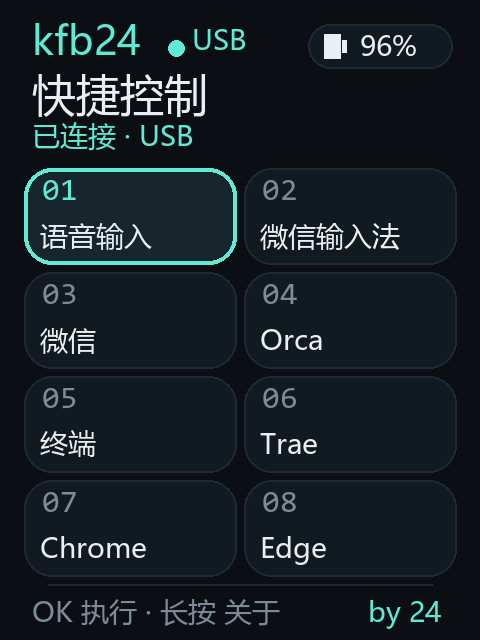
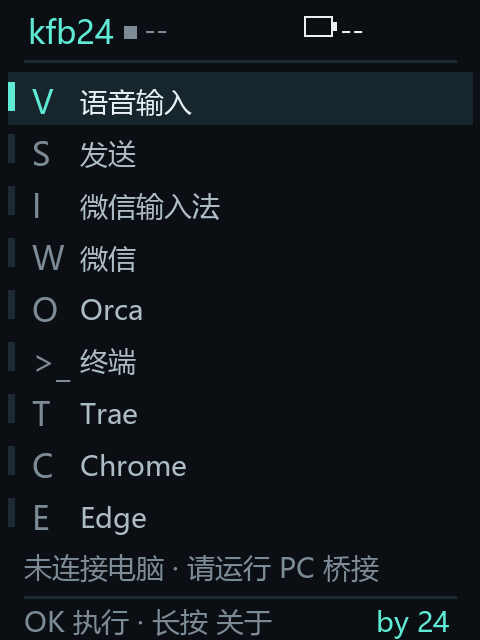
feat(kfb24): add a Send action and clamp list navigation
- The board's ninth action, `enter`, presses Enter once in the focused window so the
  recognised text is submitted; the bridge ends a running voice session first. It
  stays manual because WeType commits after the hotkey is released.
- Up/Down now clamp at the first and last row instead of wrapping; pressing Up on the
  voice row used to jump to the last row.
- Nine 26 px rows with ASCII icons, because `kfb24_font_16` has no LVGL private-use
  glyphs and the previous symbol icons rendered blank.
- Version 1.0.3 in the firmware, the bridge, and the about page; regenerated the home
  screen preview and documented the Send action.

diff --git a/main/kfb24_ui.c b/main/kfb24_ui.c
@@ -24,19 +24,21 @@
 #define SCREEN_W 240
 #define SCREEN_H 320
 
-#define KFB24_ACTION_COUNT 8
+#define KFB24_ACTION_COUNT 9
 
 static const char *TAG = "kfb24_ui";
 static const char *CMDS[KFB24_ACTION_COUNT] = {
-    "voice", "ime", "wechat", "orca",
+    "voice", "enter", "ime", "wechat", "orca",
     "terminal", "trae", "chrome", "edge",
 };
 static const char *NAMES[KFB24_ACTION_COUNT] = {
-    "语音输入", "微信输入法", "微信", "Orca",
+    "语音输入", "发送", "微信输入法", "微信", "Orca",
     "终端", "Trae", "Chrome", "Edge",
 };
+// ASCII only: kfb24_font_16 is generated from the characters found under
+// main/, so LVGL's private-use symbols are not in it and render as blanks.
 static const char *ICONS[KFB24_ACTION_COUNT] = {
-    LV_SYMBOL_AUDIO, LV_SYMBOL_KEYBOARD, LV_SYMBOL_ENVELOPE,
+    "V", "S", "I", "W",
     "O", ">_", "T", "C", "E",
 };
 
@@ -80,7 +82,7 @@ static lv_obj_t *make_row(lv_obj_t *parent, int y,
     lv_obj_remove_flag(row, LV_OBJ_FLAG_SCROLLABLE);
     lv_obj_add_flag(row, LV_OBJ_FLAG_CLICKABLE);
     lv_obj_set_pos(row, 4, y);
-    lv_obj_set_size(row, 232, 30);
+    lv_obj_set_size(row, 232, 26);
     lv_obj_set_style_radius(row, 0, 0);
     lv_obj_set_style_bg_color(row, lv_color_hex(COL_SURFACE_HI), 0);
     lv_obj_set_style_bg_opa(row, LV_OPA_TRANSP, 0);
@@ -91,18 +93,18 @@ static lv_obj_t *make_row(lv_obj_t *parent, int y,
 
     lv_obj_t *bar = lv_obj_create(row);
     lv_obj_remove_flag(bar, LV_OBJ_FLAG_SCROLLABLE);
-    lv_obj_set_pos(bar, 0, 7);
-    lv_obj_set_size(bar, 3, 16);
+    lv_obj_set_pos(bar, 0, 5);
+    lv_obj_set_size(bar, 3, 14);
     lv_obj_set_style_radius(bar, 0, 0);
     lv_obj_set_style_bg_color(bar, lv_color_hex(COL_BORDER), 0);
     lv_obj_set_style_bg_opa(bar, LV_OPA_COVER, 0);
     lv_obj_set_style_border_width(bar, 0, 0);
     lv_obj_set_style_pad_all(bar, 0, 0);
 
-    lv_obj_t *icon_label = make_label(row, icon, &kfb24_font_16, COL_MUTED, 12, 6);
+    lv_obj_t *icon_label = make_label(row, icon, &kfb24_font_16, COL_MUTED, 12, 4);
     lv_obj_set_width(icon_label, 20);
     lv_obj_t *name_label = make_label(row, name, &kfb24_font_14,
-                                      COL_TEXT_DIM, 36, 7);
+                                      COL_TEXT_DIM, 36, 5);
     lv_obj_set_width(name_label, 188);
     lv_label_set_long_mode(name_label, LV_LABEL_LONG_CLIP);
 
@@ -216,7 +218,7 @@ static void update_about(const kfb24_link_status_t *st, int soc, int mv) {
         snprintf(buf, sizeof(buf), "%s", "--");
     }
     lv_label_set_text(s_about_values[4], buf);
-    lv_label_set_text(s_about_values[5], "kfb24 1.0.2");
+    lv_label_set_text(s_about_values[5], "kfb24 1.0.3");
 }
 
 static void update_status(void) {
@@ -310,7 +312,11 @@ static void execute_action(int index) {
     }
 
     char buf[48];
-    snprintf(buf, sizeof(buf), "已发送 · %s", NAMES[index]);
+    if (strcmp(CMDS[index], "enter") == 0) {
+        snprintf(buf, sizeof(buf), "已发送 · Enter");
+    } else {
+        snprintf(buf, sizeof(buf), "已发送 · %s", NAMES[index]);
+    }
     set_hint(buf, COL_ACCENT);
 }
 
@@ -353,7 +359,7 @@ static void about_open(void) {
     lv_obj_set_style_bg_opa(overlay, LV_OPA_COVER, 0);
 
     make_label(overlay, "关于", &kfb24_font_22, COL_TEXT, 16, 14);
-    lv_obj_t *version = make_label(overlay, "kfb24 1.0.2",
+    lv_obj_t *version = make_label(overlay, "kfb24 1.0.3",
                                    &lv_font_montserrat_14, COL_MUTED, 16, 46);
     lv_obj_set_width(version, 208);
     lv_obj_set_style_text_align(version, LV_TEXT_ALIGN_RIGHT, 0);
@@ -467,7 +473,7 @@ static void splash_done(lv_timer_t *timer) {
     lv_obj_set_style_pad_all(rule, 0, 0);
 
     for (int i = 0; i < KFB24_ACTION_COUNT; i++) {
-        lv_obj_t *row = make_row(home, 36 + i * 30,
+        lv_obj_t *row = make_row(home, 36 + i * 26,
                                  ICONS[i], NAMES[i], i);
         lv_obj_add_event_cb(row, card_clicked, LV_EVENT_CLICKED,
                             (void *)(intptr_t)i);
@@ -578,11 +584,17 @@ void kfb24_ui_handle_input(bsp_btn_t btn, bsp_btn_ev_t ev) {
     }
 
     if (btn == BSP_BTN_UP) {
-        s_selected = (s_selected + KFB24_ACTION_COUNT - 1) % KFB24_ACTION_COUNT;
-        refresh_selection();
+        // Clamp, do not wrap: from the first row, wrapping to the last one
+        // reads as "up did not move up".
+        if (s_selected > 0) {
+            s_selected--;
+            refresh_selection();
+        }
     } else if (btn == BSP_BTN_DOWN) {
-        s_selected = (s_selected + 1) % KFB24_ACTION_COUNT;
-        refresh_selection();
+        if (s_selected < KFB24_ACTION_COUNT - 1) {
+            s_selected++;
+            refresh_selection();
+        }
     } else if (btn == BSP_BTN_OK) {
         execute_action(s_selected);
     }

diff --git a/pc/kfb24_bridge.py b/pc/kfb24_bridge.py
@@ -51,7 +51,7 @@ except ImportError:  # pragma: no cover - reported by main when --ble is used
     BleakClient = None
     BleakScanner = None
 
-VERSION = "1.0.2"
+VERSION = "1.0.3"
 PREFIX = "KFB24 "
 DEFAULT_TCP_PORT = 8765
 DEFAULT_CONFIG = Path(os.environ.get("APPDATA", str(Path.home()))) / "kfb24" / "bridge.json"
@@ -1217,6 +1217,25 @@ class Actions:
             return send_hotkey(fallback)
         return False
 
+    def enter(self) -> bool:
+        """Press Enter once, so the recognised text is submitted.
+
+        WeType commits the text into the focused control a moment after the
+        voice hotkey is released, so this is a separate user action rather
+        than an automatic keystroke: pressing it too early would submit an
+        empty line, and only the user knows when the text is complete.
+        """
+        if self.dry_run:
+            log("dry-run: press Enter")
+            return True
+        keys = hotkey_keys("enter")
+        if not keys:
+            return False
+        if not press_keys(keys):
+            return False
+        time.sleep(0.04)  # Give the target a key-down/key-up pair, not a blip.
+        return release_keys(keys)
+
     def _start_audio(self) -> bool:
         if self.audio.start():
             return True
@@ -1350,6 +1369,11 @@ class Actions:
     def run(self, name: str) -> bool:
         if name == "voice":
             return self.voice()
+        if name == "enter":
+            # Submitting while WeType still holds the hotkey would send the
+            # Enter before its text lands, so end the session first.
+            self._end_voice_session("ended by enter")
+            return self.enter()
         if name == "ime":
             # Commit the running WeType session under the current IME first;
             # switching profiles mid-commit can swallow the text.
@@ -1927,7 +1951,7 @@ def run_bridge(args, config: dict) -> int:
         release_single_instance()
         return 2
     bridge.start_heartbeat()
-    log("bridge: ready for voice/ime/wechat/orca/terminal/trae/chrome/edge")
+    log("bridge: ready for voice/enter/ime/wechat/orca/terminal/trae/chrome/edge")
     try:
         while True:
             time.sleep(1.0)
@@ -1972,8 +1996,8 @@ def main() -> int:
     parser.add_argument("--password", help="Wi-Fi password for --configure")
     parser.add_argument("--host", help="PC IPv4 address advertised to the board")
     parser.add_argument("--test-action",
-                        choices=["voice", "ime", "wechat", "orca", "terminal",
-                                 "trae", "chrome", "edge"],
+                        choices=["voice", "enter", "ime", "wechat", "orca",
+                                 "terminal", "trae", "chrome", "edge"],
                         help="run one action locally and exit")
     args = parser.parse_args()
 

diff --git a/main/main.c b/main/main.c
@@ -1,5 +1,5 @@
 // kfb24 —— a PC command console for the FoloToy AI Passport board.
-// Three buttons drive eight actions over USB, Wi-Fi, or BLE through the
+// Three buttons drive nine actions over USB, Wi-Fi, or BLE through the
 // kfb24 PC bridge.
 #include "bsp_button.h"
 #include "bsp_display.h"
@@ -41,7 +41,7 @@ static void input_task(void *arg) {
 }
 
 void app_main(void) {
-    ESP_LOGI(TAG, "kfb24 1.0.2 by 24 启动");
+    ESP_LOGI(TAG, "kfb24 1.0.3 by 24 启动");
 
     esp_err_t err = bsp_i2c_init();
     if (err != ESP_OK) ESP_LOGW(TAG, "I2C 初始化失败: %s", esp_err_to_name(err));

diff --git a/main/kfb24_link.c b/main/kfb24_link.c
@@ -30,7 +30,7 @@
 #define USB_LINE_MAX KFB24_PROTO_MAX_LINE
 
 static const char *TAG = "kfb24_link";
-static const char *FW_VERSION = "kfb24/1.0.2";
+static const char *FW_VERSION = "kfb24/1.0.3";
 
 typedef struct {
     char name[16];

diff --git a/README.md b/README.md
@@ -11,7 +11,7 @@ Windows 快捷控制台。三颗实体按键、一块 240×320 屏幕，通过 U
 </p>
 
 <p align="center">
-  <img src="assets/images/kfb24-home.png" alt="kfb24 主界面：语音输入、微信输入法、微信、Orca、终端、Trae、Chrome、Edge 八个动作卡片" width="264">
+  <img src="assets/images/kfb24-home.png" alt="kfb24 主界面：语音输入、发送、微信输入法、微信、Orca、终端、Trae、Chrome、Edge 九个动作卡片" width="264">
 </p>
 
 <p align="center"><sub>kfb24 主界面预览（按 240×320 的实际卡片布局生成，不是设备照片）</sub></p>
@@ -24,17 +24,20 @@ Windows 快捷控制台。三颗实体按键、一块 240×320 屏幕，通过 U
 
 ## 功能
 
-- **八个动作**：语音输入、微信输入法、微信、Orca、终端、Trae、Chrome、Edge。
+- **九个动作**：语音输入、发送、微信输入法、微信、Orca、终端、Trae、Chrome、Edge。
 - **微信输入法语音输入**：第一次按“语音输入”按住微信输入法的语音快捷键（默认
   `Ctrl+Win`），再次按下停止；识别出的文字进入当前焦点输入框。开发板把板载
   麦克风的 16 kHz 音频编码为 IMA ADPCM，经 USB、BLE 或 Wi-Fi 送到电脑；桥接解码后
   写入 VB-CABLE 的 `CABLE Input`，微信输入法从 `CABLE Output` 取音并自行识别。
   默认 60 秒无操作自动松开，桥接退出时也会松开。不再使用 Windows `Win+H`。
+- **发送**：向当前焦点窗口按一次回车，把识别结果提交出去（聊天框发送、终端执行、
+  搜索框提交）。它是一次独立按键，不由语音结束自动触发，因为微信输入法在松开
+  快捷键后才把文字写入输入框；如果不打算发送，结束语音后保持不动即可。
 - **聚焦 / 最小化 / 恢复**：微信、Orca、终端、Trae、Chrome、Edge 的动作按当前窗口
   状态切换：没有窗口就启动，已最小化就恢复并聚焦，已在前台就最小化，其他情况聚焦
   到前台，不重复启动进程。
 - **三种连接**：USB 串口、Wi-Fi TCP、BLE（Nordic UART Service）。
-- **蓝牙独立控制**：`--ble-only` 不打开 USB 串口，直接通过 BLE 连接开发板；八个
+- **蓝牙独立控制**：`--ble-only` 不打开 USB 串口，直接通过 BLE 连接开发板；九个
   动作、执行结果和连接状态都走 NUS，语音动作同样通过 BLE 推流板载麦克风。
 - **断线可恢复**：PC 桥接每两秒发送心跳；BLE 断开后自动重连；开发板显示当前
   通道和桥接状态。
@@ -142,6 +145,7 @@ USB 或 BLE。
 | 界面 | 命令 | 电脑端行为 |
 | --- | --- | --- |
 | 语音输入 | `voice` | 第一次按下开始推流板载麦克风并按住微信输入法语音快捷键，第二次停止；音频经当前通道进入 VB-CABLE，微信输入法从 `CABLE Output` 识别 |
+| 发送 | `enter` | 在当前焦点窗口按一次回车，提交识别结果；正在进行语音会话时先结束会话再按回车 |
 | 微信输入法 | `ime` | 激活 WeType TSF 配置，失败时发送 `ime_hotkey` |
 | 微信 | `wechat` | 启动 / 恢复 / 最小化 / 聚焦微信窗口 |
 | Orca | `orca` | 启动 / 恢复 / 最小化 / 聚焦 Orca |
@@ -156,6 +160,11 @@ USB 或 BLE。
 取音。若微信输入法使用“启动语音输入”模式，把 `voice_mode` 设为 `"tap"`。
 电脑端需要 `sounddevice` 与 `pycaw`（见 `pc/requirements.txt`）；找不到虚拟
 麦克风端点时桥接不会按快捷键。
+
+识别结果不会自动提交。确认文字已经进入输入框后，选择“发送”并按 OK，桥接会在
+当前焦点窗口按一次回车；正在录音时选“发送”，桥接先结束语音会话再按回车。
+如果不打算发送，结束语音后保持不动即可。板子上键/下键只移动列表选择，到第一项
+按上键停在原地，不会跳到列表末尾。
 
 ## 连接与协议
 
@@ -231,7 +240,7 @@ idf.py -B build-kfb24 build
 
 | 路径 | 内容 |
 | --- | --- |
-| `main/kfb24_ui.c` | kfb24 界面、八卡片布局、按键交互、关于页 |
+| `main/kfb24_ui.c` | kfb24 界面、九卡片布局、按键交互、关于页 |
 | `main/kfb24_link.c` | USB/Wi-Fi/BLE 链路、心跳、命令与 ACK |
 | `main/kfb24_audio.c` | 板载麦克风采集、base64/CRC32 音频帧、USB 推流 |
 | `main/kfb24_ble.c` | NimBLE NUS 外设 |

diff --git a/pc/README.zh_CN.md b/pc/README.zh_CN.md
@@ -4,7 +4,7 @@
 
 # kfb24 电脑端桥接
 
-`kfb24_bridge.py` 把开发板的八个动作转换成 Windows 输入与程序启动。它同时监听
+`kfb24_bridge.py` 把开发板的九个动作转换成 Windows 输入与程序启动。它同时监听
 USB 串口、Wi-Fi TCP，并可选监听 BLE；每两秒发送一次 `KFB24 HELLO` 心跳，并在收到
 命令的同一通道上回复 ACK。
 
@@ -85,7 +85,7 @@ python pc/kfb24_bridge.py --ble-only
 ```
 
 `--ble-only` 隐含 `--ble` 并跳过串口自动查找。开发板只需供电，Windows 蓝牙必须打开。
-`pc\start_bridge.cmd --ble-only` 同样可用。连接后开发板显示 `ble 1 bridge`，八个动作
+`pc\start_bridge.cmd --ble-only` 同样可用。连接后开发板显示 `ble 1 bridge`，九个动作
 及其 ACK 都走 NUS；语音动作同样通过 BLE 推流板载麦克风。
 
 BLE NUS 通道没有应用层认证。范围内任何能连接 `kfb24` 的 BLE central 都能发送与
@@ -96,6 +96,7 @@ BLE NUS 通道没有应用层认证。范围内任何能连接 `kfb24` 的 BLE c
 | 开发板动作 | 电脑端效果 |
 | --- | --- |
 | `voice` | 开发板通过当前通道（USB、BLE 或 Wi-Fi）推流板载麦克风到 VB-CABLE 的 `CABLE Input`，微信输入法从 `CABLE Output` 取音；同时按住微信输入法语音快捷键（默认 `Ctrl+Win`）。再次按下同时停止。使用微信输入法，不再发送 Windows `Win+H`。 |
+| `enter` | 在当前焦点窗口按一次回车，提交识别结果（聊天发送、终端执行、搜索提交）。录音进行中选中它时，桥接先松开语音快捷键并停止推流，再按回车。 |
 | `ime` | 激活微信输入法 TSF 配置（`{86598FB9-…}` / `{607FDF85-…}`，langid `0x0804`）；失败时发送配置的热键。 |
 | `wechat` | 按“启动 / 恢复 / 最小化 / 聚焦”切换微信窗口。 |
 | `orca` | 按“启动 / 恢复 / 最小化 / 聚焦”切换 Orca。 |
@@ -141,6 +142,11 @@ python pc/kfb24_bridge.py --list-audio
 
 桥接会在 `voice_max_seconds`（默认 60 秒）后自动松开，并在退出时松开，避免开发板
 或桥接失联后 `Ctrl`/`Win` 卡住。识别出的文字仍进入当前焦点输入框。
+
+识别完成后不会自动回车：微信输入法在松开快捷键后才把文字写进输入框，自动按键既
+可能抢在文字之前，也可能把没说完的一句提交掉。文字确认无误后选“发送”，由桥接
+按一次回车；不打算发送就保持不动。板子上键/下键只移动列表选择，在第一项按上键
+停在原地，不会跳到列表末尾。
 
 启动器按可执行文件名匹配顶层窗口：没有窗口就启动；已最小化就恢复并聚焦；已在前台
 就最小化；其他情况聚焦。若找到窗口但无法聚焦，桥接会报告失败，而不是再启动一个

diff --git a/pc/README.md b/pc/README.md
@@ -4,7 +4,7 @@
 
 # kfb24 PC bridge
 
-`kfb24_bridge.py` turns the board's eight actions into Windows input and app
+`kfb24_bridge.py` turns the board's nine actions into Windows input and app
 launches. It listens on USB serial, Wi-Fi TCP, and optionally BLE, sends
 `KFB24 HELLO` heartbeats every two seconds, and acknowledges every board command
 on the receiving transport.
@@ -95,8 +95,8 @@ python pc/kfb24_bridge.py --ble-only
 
 `--ble-only` implies `--ble` and skips serial autodetection. The board only needs
 power, and Windows Bluetooth must be on. `pc/start_bridge.cmd --ble-only` works
-too. A connected board reports `ble 1 bridge`; all eight actions and their ACKs
-use the NUS link. All eight actions, including voice, work over BLE: the board
+too. A connected board reports `ble 1 bridge`; all nine actions and their ACKs
+use the NUS link. All nine actions, including voice, work over BLE: the board
 streams its own microphone as IMA ADPCM blocks, exactly as it does over USB.
 
 The NUS link has no application-layer authentication. Any BLE central in range
@@ -108,6 +108,7 @@ that connects to `kfb24` can send the same commands as the bridge, so enable
 | Board action | PC effect |
 | --- | --- |
 | `voice` | Streams the board microphone over the active link (USB, BLE, or Wi-Fi) into VB-CABLE's `CABLE Input`, so WeType records `CABLE Output`; holds the configured WeType hotkey (default `Ctrl+Win`). The next press stops both. Use WeType voice input, not Windows `Win+H`. |
+| `enter` | Presses Enter once in the focused window, so the recognised text is submitted (chat send, terminal run, search submit). During a voice session the bridge releases the hotkey and stops the stream first, then presses Enter. |
 | `ime` | Activates the WeType TSF profile (`{86598FB9-…}` / `{607FDF85-…}`, langid `0x0804`), falling back to the configured hotkey. |
 | `wechat` | Opens, restores, minimizes, or focuses a WeChat window, in that state order. |
 | `orca` | Opens, restores, minimizes, or focuses Orca. |
@@ -143,6 +144,11 @@ they cannot redirect a session that is already running.
 
 Recognised text is never copied to the clipboard, and the bridge cannot address
 it to a specific application: WeType alone decides where the characters go.
+Nothing presses Enter automatically: WeType commits a moment after the hotkey
+is released, so an automatic keystroke would race the text, and the same Enter
+would submit a half-finished line. Send the `enter` action when the text looks
+right; the board's up/down keys only move the row selection and stop at the
+first and last row instead of wrapping.
 
 Install VB-CABLE once from https://vb-audio.com/Cable/ (administrator, then
 reboot). In WeType's voice settings select

diff --git a/assets/README.md b/assets/README.md
@@ -43,7 +43,7 @@ Store reusable source images and generated display assets in `images/`.
 | File | Dimensions and format | Use and source |
 | --- | --- | --- |
 | [`images/home.jpg`](images/home.jpg) | 3840 × 2160, JPEG | Product hero image embedded in both project README files to foreground AI Passport and its open, maker-oriented identity. |
-| [`images/kfb24-home.png`](images/kfb24-home.png) | 480 × 640, PNG RGB | Generated 2× preview of the kfb24 home screen for the root README. The layout and colors mirror `main/kfb24_ui.c` (240 × 320, four action rows, footer); it is a preview, not a device photograph. Generated for this repository with Pillow on 2026-11-24 from the documented layout constants. |
+| [`images/kfb24-home.png`](images/kfb24-home.png) | 480 × 640, PNG RGB | Generated 2× preview of the kfb24 home screen for the root README. The layout and colors mirror `main/kfb24_ui.c` (240 × 320, nine 26 px action rows, footer); it is a preview, not a device photograph. Generated for this repository with Pillow on 2026-11-25 from the documented layout constants. |
 | [`images/readme-hardware-specs.png`](images/readme-hardware-specs.png) | 2172 × 724, PNG RGBA | Optional technical infographic retained as a reference asset; it is no longer used as the homepage hero. Generated for this repository with the built-in image generation tool on 2026-09-17; the six labels and values were checked against the documented hardware contract. |
 | [`images/logo-wordmark.png`](images/logo-wordmark.png) | 1648 × 336, PNG RGBA | Transparent black wordmark extracted from the repository's original `images/logo.png`; embedded in both project README files for light backgrounds. |
 | [`images/logo-wordmark-dark.png`](images/logo-wordmark-dark.png) | 1648 × 336, PNG RGBA | White version of the extracted wordmark, used by the README `<picture>` element when GitHub is in dark mode. |

diff --git a/docs/CHANGELOG.zh_CN.md b/docs/CHANGELOG.zh_CN.md
@@ -8,6 +8,16 @@
 > 发布负责人检查已合并的用户可见变化，并与 `CHANGELOG.md` 同步更新。当前
 > `Unreleased` 下的条目是下次发布的待核对内容，不是已经定稿的发布历史。
 
+## Unreleased
+
+- 主界面新增第九个动作“发送”（`enter`）：在当前焦点窗口按一次回车，提交识别结果。
+  它刻意保持手动触发——微信输入法在松开语音快捷键后才提交文字，自动按键既会抢在
+  文字之前，也可能把没说完的一句发出去。
+- 上键/下键改为在第一项和最后一项停止，不再循环。以前在“语音输入”上按上键会跳到
+  列表最后一行，看起来就像“上键不能上移”。
+- 九个动作行高 26 px，图标改用 ASCII：`kfb24_font_16` 只包含 `main/` 下出现过的
+  字符，不含 LVGL 的私有区符号，原来的音频、键盘、信封图标实际渲染为空白。
+
 ## v1.0.2-kfb24 - 2026-11-25
 
 - 板载语音输入在 USB、BLE、Wi-Fi 三种通道上都能稳定送到微信输入法。开发板用 ES8311

diff --git a/docs/CHANGELOG.md b/docs/CHANGELOG.md
@@ -10,6 +10,20 @@
 > with `CHANGELOG.zh_CN.md`. The entries currently under `Unreleased` are pending
 > review for the next release; they are not a finalized release history.
 
+## Unreleased
+
+- The board gains a ninth action, Send (`enter`): it presses Enter once in the
+  focused window so the recognised text is submitted. It stays manual by
+  design — WeType commits after the voice hotkey is released, so an automatic
+  keystroke would race the text and could submit a half-finished line.
+- Up and Down now clamp at the first and last row instead of wrapping. Pressing
+  Up on the voice row used to jump to the last row, which read as "up does not
+  move up"; Down on the last row likewise stayed put.
+- The nine action rows are 26 px tall and use ASCII icons, because
+  `kfb24_font_16` is generated from the characters under `main/` and does not
+  contain LVGL's private-use symbols — the previous audio/keyboard/envelope
+  icons rendered as blanks.
+
 ## v1.0.2-kfb24 - 2026-11-25
 
 - Voice input from the board now reaches WeType on every transport. The board
